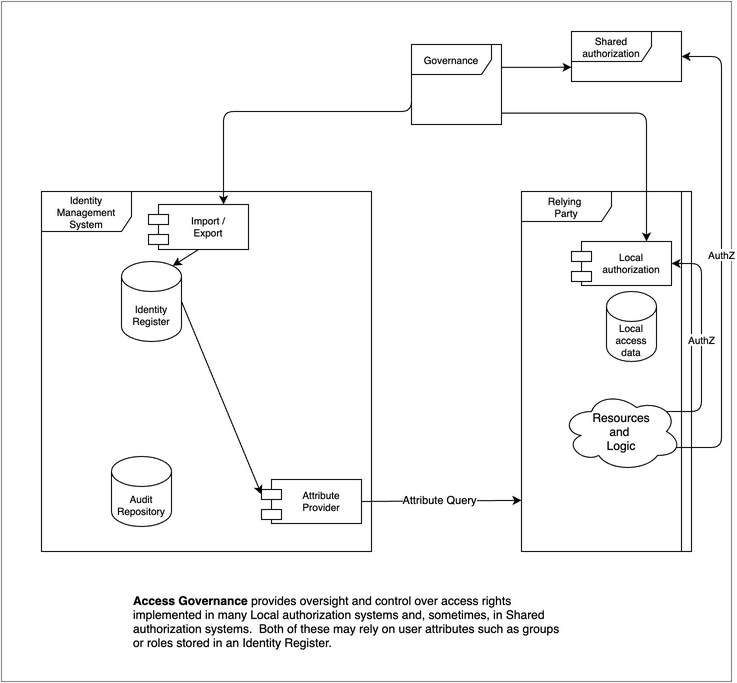
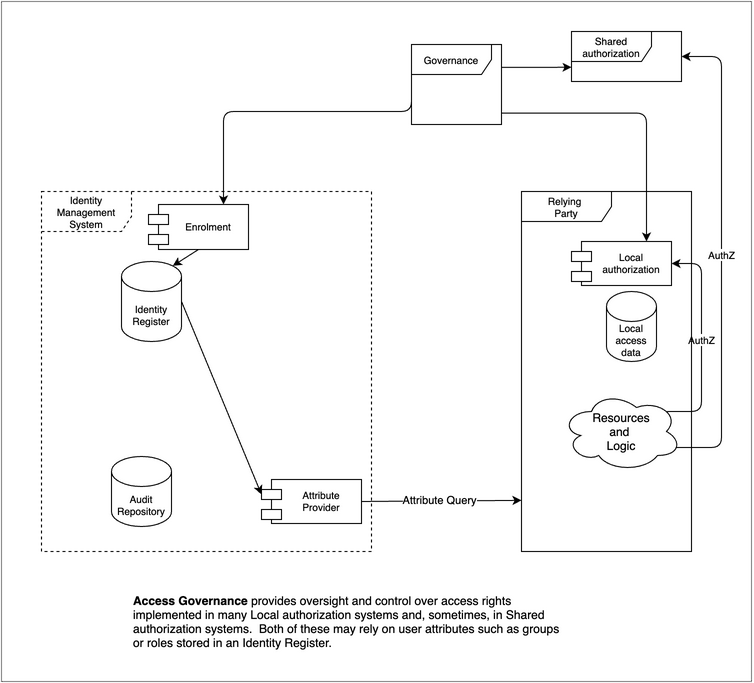
improvements support issue #3

diff --git a/tech-arch.md b/tech-arch.md
@@ -8,9 +8,9 @@ This article provides a reference model to organize the presentation of technica
 
 To move out of the conceptual realm into specifics additional articles follow, each with a focus on a specific technical use-cases. Each such use-case indicates which of the abstract components comprise a particular implementation 
 
-The model is a restatement/extension of the ISO/IEC framing. Some UML detail has been removed for simplicity. The IAM model has been extended so that authorization, governance and risk-control can be included.
+The model is a restatement/extension of the ISO/IEC framing [Note 1]. Some UML detail has been removed for simplicity. The IAM model has been extended so that authorization, governance and risk-control can be included.
 
-Some of the ISO/IEC names have been changed to reflect more common usage.
+Some of the ISO/IEC names have been changed to reflect more common usage. In come cases, the ISO names have been used in a way that is more expansive than their definition.
 
 The model has been reviewed in conjunction with the FICAM, Internet 2, and NIST Zero Trust frameworks.
 
@@ -29,7 +29,7 @@ While, it is possible to have an identity management system that is populated wi
 
 The model can be used at different levels. Here are a couple of examples:
 #### Example 1
-A modern architecture may have a web-hosted application (the RP) that calls an Identity as a Service (IDaaS) cloud identity service, acting as the Identity Management System.
+A modern architecture may have a web-hosted application (the RP) that calls an Identity as a Service (IDaaS) cloud identity service, acting as the Identity Management System. The RP in this case could be a customer facing application or a workforce facing application.
 
 #### Example 2
 A computer's file system (RP) provides access control based on the user information acquired at login (IMS). Despite both the file system and the identity management function being encapsulated in an operating system, the model holds.
@@ -41,19 +41,25 @@ The terms are defined below and provided with abbreviations to facilitate refere
 
 ### Identity Management System (IMS)
 
-A set of policies, procedures, technology, and other resources for maintaining identity information. In this model it contains information about principals/subjects including credentials. It also including other data such as meta data to enable interoperability with other components.
+A set of policies, procedures, technology, and other resources for maintaining identity information. In this model it contains information about principals/subjects including credentials. It also including other data such as meta data to enable interoperability with other components.  The IMS is shown with a dotted line to indicate that it is a conceptual grouping of components, not a full fledged system in itself.
 
 ### Relying  Party (RP)
 
 A component, system or application that uses the IMS to identify its users. The RP has its own resources and logic. This is also known as the Relying Service in the ISO/IEC model. This roughly corresponds to the Agency Endpoint in the FICAM model, or to Identity Consumers in the Internet2 model.
 
-### Authoritative Sources (ASRC)
+### Identity Information Authority (IIA)
 
-This represents one or more data sources that are used by the IMS as the basis for the master set of principal/subject identity records. Each AS may supply a subset of records and a subset of attributes. This corresponds to Identity Information Source in ISO/IEC 24760-2, and Identity Sources in Internet 2
+This represents one or more data sources that are used by the IMS as the basis for the master set of principal/subject identity records. Each IIA may supply a subset of records and a subset of attributes. Sometimes the IIA is distinguished from the Identity Information Provider or IIP.  Here we mean this term to include the service that actually provides the information as well as the root authority.  Sometimes the authority for attributes is distinguished from the authority for identities.  Here we use this term to include both. This corresponds to Identity Information Source in ISO/IEC 24760-2, and Identity Sources in Internet 2.
 
-### Principal& Credential Mgmt (PCM)
+### Enrolment 
+Also known as Registration. Enrolment is concerned with  the proofing, and lifecycle aspects of the principal (or subject).  The entity that performs enrolment is known as a Registration Authority.
 
-This follows the ISO model where the proofing, and lifecycle aspects of the principal (or subject) together with the process of credentialing are considered a subfunction of the IMS. FICAM separates this into a first-class component called Credential Management System, which also includes PKI information for federation, which this model indicates under metadata and discovery.
+### Credential Service Provider (CSP)
+A credential allows for authentication of an entity.  The Credential Service Provider is here meant to include the issuer as well as an subsequent management of the credentials.  FICAM separates this into a first-class component called Credential Management System, which also includes PKI information for federation, which this model indicates under metadata and discovery.
+
+### Identity Register
+
+This is the data store that contains the enroled entities, and their attributes.  We use this to include the storage related to credentials, although in practice, all or some of the credentials may be stored in their own physical repository.  
 
 ### Authentication (AUTHN)
 
@@ -82,11 +88,11 @@ Control data that allows the Identity Management System to recognize and trust t
 Provisioning
 ------------
 
-Provisioning is a term that encompases the processes and methods that create, modify, and, eventually, delete the identity and profile information used by IT infrastructure and business applications. By these methods the data gets into the identity repository.  Often provisioing needs to extend to applications  to support authorization decisions.
+Provisioning is a term that encompases the processes and methods that create, modify, and, eventually, delete the identity and profile information used by IT infrastructure and business applications. By these method, records are created, or updated in the identity repository, and removed from it.  Often, provisioing needs to extend to applications  to support authorization decisions.
 
-Note that the Authoritative Sources for identity attributes transcend the HR system and may include the email system, phone system, training certification etc. In some cases, a company may have more than one HR system.
+Note that the authoritative sources for identity attributes transcend the HR system and may include the email system, phone system, training certification etc. In some cases, a company may have more than one HR system.
 
-The act of provisioning may include certain logic, best modeled as governance.  In some cases the IGA system actually takes on all the provisioning duties.
+The act of provisioning may include certain logic, best modeled as governance.  In some cases the IGA system actually takes on all the provisioning duties. 
 
 Also note, the notion of importing data does not necessarily mean making a physical copy of data, although it often does. The notion also supports the idea of virtualization - where the import of identity information is done at run-time.
 
@@ -164,7 +170,7 @@ Discovery is a service relying parties need to identify where a user's identity 
 References
 ----------
 
-1.  ISO/IEC 24760-2:2015(E)
+1. ISO/IEC 24760-2:2015(E) Figure C.1 provided the starting point.  ISO/IEC 24760-1 Second edition provided improved naming and granularity (specifically breaking out CSP and Enrolment)
 
 2.  FICAM [[https://playbooks.idmanagement.gov/arch/components/]{.underline}](https://playbooks.idmanagement.gov/arch/components/)
 
